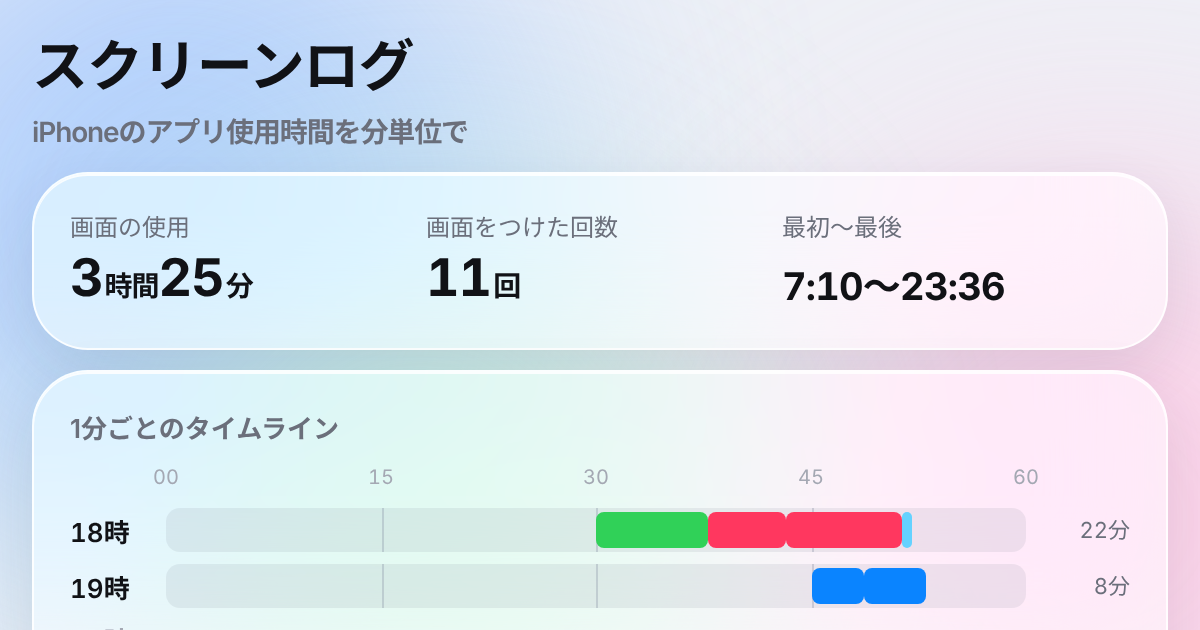
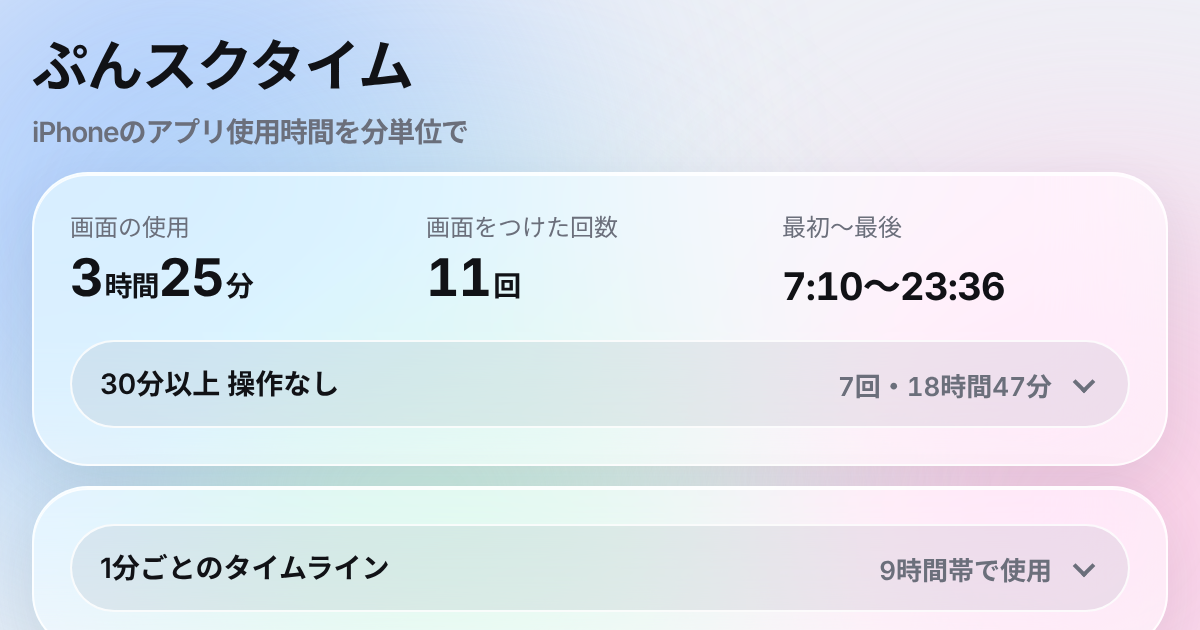
Rename to ぷんスクタイム
Claude-Session: https://claude.ai/code/session_01DG3hntH6Jo762hrc4nYmfn

diff --git a/index.html b/index.html
@@ -1,18 +1,18 @@
 <!doctype html>
 <html lang="ja"><head><meta charset="utf-8"><meta name="viewport" content="width=device-width,initial-scale=1,viewport-fit=cover">
-<meta name="apple-mobile-web-app-capable" content="yes"><meta name="apple-mobile-web-app-title" content="スクリーンログ">
+<meta name="apple-mobile-web-app-capable" content="yes"><meta name="apple-mobile-web-app-title" content="ぷんスクタイム">
 <link rel="apple-touch-icon" href="apple-touch-icon.png"><link rel="icon" href="icon-192.png"><link rel="manifest" href="manifest.json">
 <meta http-equiv="Cache-Control" content="no-cache">
 <script>
 /* ホーム画面アプリでも新しい版に自動で切り替える */
-(function(){var BUILD="1792758718";function check(){try{fetch("./index.html?t="+Date.now(),{cache:"no-store"}).then(function(r){return r.ok?r.text():""}).then(function(t){var m=t.match(/var BUILD="(\d+)"/);if(m&&m[1]!==BUILD){location.replace("./?v="+m[1])}}).catch(function(){})}catch(e){}}
+(function(){var BUILD="1792762763";function check(){try{fetch("./index.html?t="+Date.now(),{cache:"no-store"}).then(function(r){return r.ok?r.text():""}).then(function(t){var m=t.match(/var BUILD="(\d+)"/);if(m&&m[1]!==BUILD){location.replace("./?v="+m[1])}}).catch(function(){})}catch(e){}}
 window.addEventListener("load",check);document.addEventListener("visibilitychange",function(){if(document.visibilityState==="visible")check()});})();
 </script>
-<title>スクリーンログ｜iPhoneのアプリ使用時間を分単位で確認（スクリーンタイムより細かく）</title>
+<title>ぷんスクタイム｜iPhoneのアプリ使用時間を分単位で確認（スクリーンタイムより細かく）</title>
 <meta name="description" content="iPhoneのスクリーンタイムでは1時間単位までしか見られない「何時何分に何のアプリを使っていたか」を、分単位のタイムラインで確認できる無料ツール。登録不要、データは端末内だけで処理します。">
 <link rel="canonical" href="https://pipopa-lab.github.io/screenlog/">
 <meta property="og:type" content="website"><meta property="og:url" content="https://pipopa-lab.github.io/screenlog/">
-<meta property="og:title" content="スクリーンログ｜iPhoneのアプリ使用時間を分単位で確認">
+<meta property="og:title" content="ぷんスクタイム｜iPhoneのアプリ使用時間を分単位で確認">
 <meta property="og:description" content="iPhoneのスクリーンタイムでは1時間単位までしか見られない「何時何分に何のアプリを使っていたか」を、分単位のタイムラインで確認できる無料ツール。登録不要、データは端末内だけで処理します。">
 <meta property="og:image" content="https://pipopa-lab.github.io/screenlog/og.png"><meta name="twitter:card" content="summary_large_image">
 
@@ -149,7 +149,7 @@ header p{margin:0;color:var(--sub);font-size:13px;line-height:1.6}
 <div class="field" aria-hidden="true"><i></i><i></i><i></i></div>
 <div class="wrap">
   <header>
-    <h1>スクリーンログ</h1>
+    <h1>ぷんスクタイム</h1>
     <p>iPhoneの診断ファイルから、何時何分にどのアプリを使っていたかを分刻みで表示します。ファイルはこの端末のブラウザの中だけで読み込み、どこにも送信しません。</p>
   </header>
   <div class="banner glass" id="banner"><b>サンプル表示中</b><span>下の「フォルダを選ぶ」から自分の記録を選ぶと切り替わります。</span></div>
